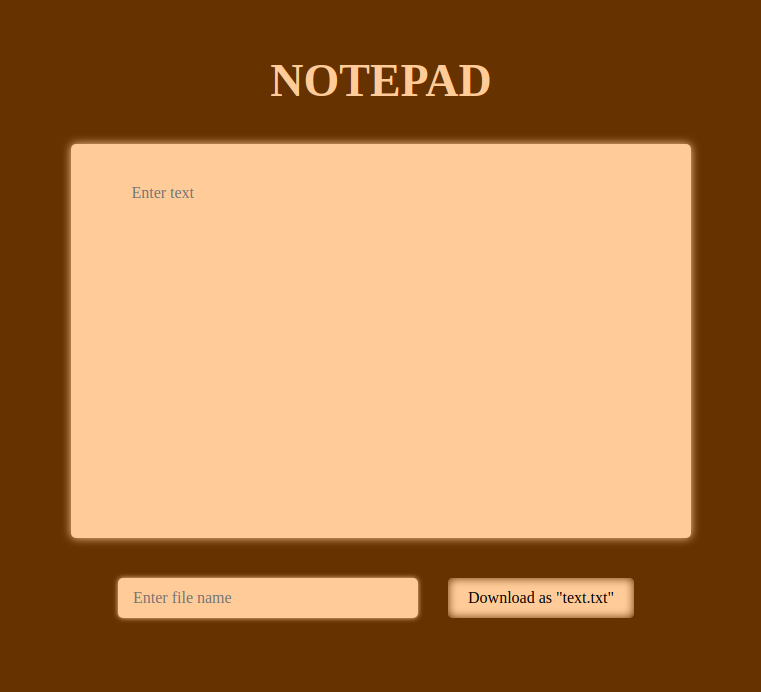
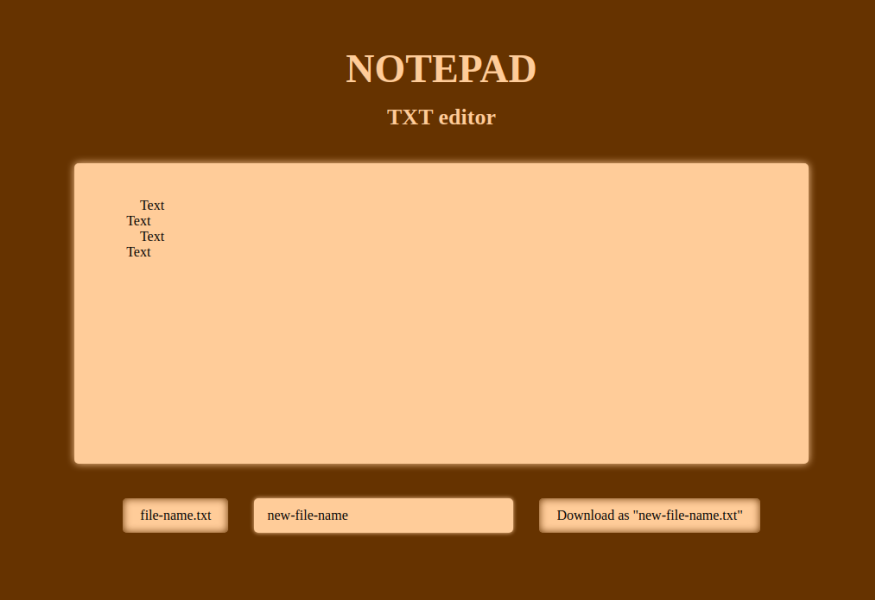
update README.md

Changed region(s): [[0.0604, 0.18, 0.9369, 0.9], [0.3627, 0.09, 0.6649, 0.15], [0.1511, 0.33, 0.1813, 0.45]]

diff --git a/README.md b/README.md
@@ -24,4 +24,8 @@
 
 Пользователь может написать  текст файла и указать название файла.
 
+Пользователь может загрузить файл, отредактировать текст, название и сохранить. 
+
 По умолчанию сохраняется пустой файл "text.txt"
+
+Всё происходят в браузере пользователя. Никакие данные не отправляются.
